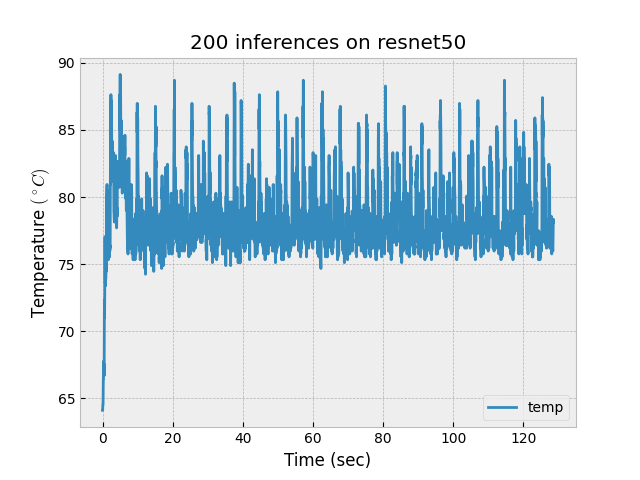
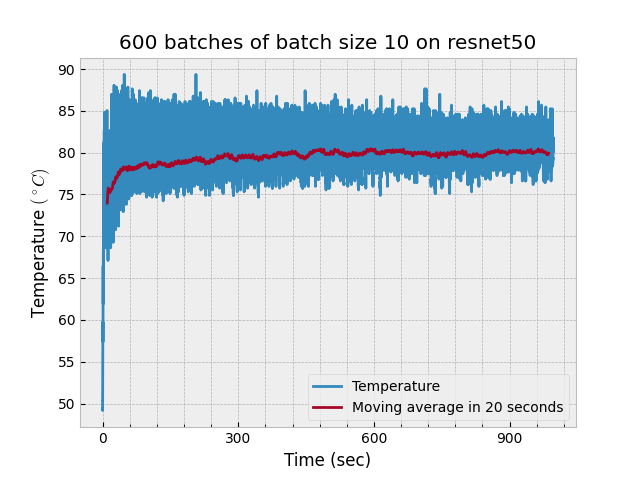
Minor Changes

diff --git a/examples/graph_temp_scheduler.cpp b/examples/graph_temp_scheduler.cpp
@@ -1035,45 +1035,45 @@ static std::map<string, std::map<int, double>> delta_temps{
 //v3.1
 static std::map<string, std::map<int, std::map<int, double>>> delta_temps2{
     { "resnet50",
-      { { CPU_SMALL, { { 50000 ,5400 }, { 55000 ,2098.29}, {60000 ,1555.2 } } },
-        { CPU_BIG, { { 55000 ,26784 }, { 60000 ,28728}, { 70000, 15336 }, { 75000, 11212.4 }, {80000 ,9201.6}, {85000 ,4968} } },
-        { CPU_BIG | CPU_SMALL, { { 60000 ,26568 }, { 65000 ,24192}, { 70000 ,18532.8 } ,{75000 ,14580}} },
-        { GPU, { { 55000 ,9504 }, { 60000 ,9192 }, {  65000 ,8559 } } },
-        { GPU | CPU_SMALL, { { 55000 ,18648}, { 60000 ,18511.2 }, { 65000 ,14004 }, { 75000 ,10368} } },
-        { GPU | CPU_BIG, { { 60000 ,26179.2 }, { 65000 ,23140.8 } } },
-        { GPU | CPU_BIG | CPU_SMALL, { { 60000 ,28944 }, {65000 ,23260.5 }, { 70000 ,19440} } } } },
+      { { CPU_SMALL, { { 50000, 5400 }, { 55000, 2098.29 }, { 60000, 1555.2 } } },
+        { CPU_BIG, { { 55000, 26784 }, { 60000, 28728 }, { 70000, 15336 }, { 75000, 11212.4 }, { 80000, 9201.6 }, { 85000, 4968 } } },
+        { CPU_BIG | CPU_SMALL, { { 60000, 26568 }, { 65000, 24192 }, { 70000, 18532.8 }, { 75000, 14580 } } },
+        { GPU, { { 55000, 9504 }, { 60000, 9192 }, { 65000, 8559 } } },
+        { GPU | CPU_SMALL, { { 55000, 18648 }, { 60000, 18511.2 }, { 65000, 14004 }, { 75000, 10368 } } },
+        { GPU | CPU_BIG, { { 60000, 26179.2 }, { 65000, 23140.8 } } },
+        { GPU | CPU_BIG | CPU_SMALL, { { 60000, 28944 }, { 65000, 23260.5 }, { 70000, 19440 } } } } },
     { "alexnet",
-      { { CPU_SMALL, { { 45000, 4104 }, { 50000, 480 }, {55000, 216} } },
+      { { CPU_SMALL, { { 45000, 4104 }, { 50000, 480 }, { 55000, 216 } } },
         { CPU_BIG, { { 50000, 21708 }, { 70000, 5076 }, { 75000, 2268 } } },
         { CPU_BIG | CPU_SMALL, { { 55000, 22896 }, { 60000, 21828 } } },
-        { GPU, { { 50000, 14472 }, {55000, 8964}, {6000, 6768} } },
-        { GPU | CPU_SMALL, { { 55000, 11772 }, { 60000, 8244 }, {65000, 10476} } },
+        { GPU, { { 50000, 14472 }, { 55000, 8964 }, { 6000, 6768 } } },
+        { GPU | CPU_SMALL, { { 55000, 11772 }, { 60000, 8244 }, { 65000, 10476 } } },
         { GPU | CPU_BIG, { { 55000, 23652 }, { 60000, 21414.9 } } },
         { GPU | CPU_BIG | CPU_SMALL, { { 60000, 26003.1 }, { 65000, 24068.6 } } } } },
     { "mobilenet",
-      { { CPU_SMALL, { { 45000, 3024 }, {50000, 330.353}, {55000, 324} } },
+      { { CPU_SMALL, { { 45000, 3024 }, { 50000, 330.353 }, { 55000, 324 } } },
         { CPU_BIG, { { 5000, 17820 }, { 65000, 4698 }, { 70000, 3067.2 } } },
         { CPU_BIG | CPU_SMALL, { { 55000, 19008 }, { 60000, 14637.2 } } },
-        { GPU, { { 50000, 6566.4 }, { 55000, 5708.57 }, {60000, 1296} } },
-        { GPU | CPU_SMALL, { { 50000, 12312 }, {55000 ,10354.5}, {60000 ,11448} } },
-        { GPU | CPU_BIG, { { 50000 ,19224}, { 55000 ,19076.2} } },
-        { GPU | CPU_BIG | CPU_SMALL, { { 55000 ,23065.7}, { 60000 ,21240 } } } } },
+        { GPU, { { 50000, 6566.4 }, { 55000, 5708.57 }, { 60000, 1296 } } },
+        { GPU | CPU_SMALL, { { 50000, 12312 }, { 55000, 10354.5 }, { 60000, 11448 } } },
+        { GPU | CPU_BIG, { { 50000, 19224 }, { 55000, 19076.2 } } },
+        { GPU | CPU_BIG | CPU_SMALL, { { 55000, 23065.7 }, { 60000, 21240 } } } } },
     { "squeezenet",
       { { CPU_SMALL, { { 65000, 518.4 } } },
-        { CPU_BIG, { { 60000 ,17280}, { 65000 ,15336 }, { 75000 ,5724 } , {80000, 2437.71}, {85000 ,1234.29}} },
-        { CPU_BIG | CPU_SMALL, { { 65000 ,19764 }, { 70000, 15181.7 }, {75000 ,14138.2} } },
-        { GPU, { { 60000 ,10354.5}, { 65000,6642 } } },
-        { GPU | CPU_SMALL, { { 55000, 14299.2 }, { 60000 ,13377.6 } } },
-        { GPU | CPU_BIG, { { 55000 ,20466 }, { 60000 ,20059.2 } ,{65000, 17496} } },
-        { GPU | CPU_BIG | CPU_SMALL, { { 60000, 25286.4 }, { 65000, 23328} } } } },
+        { CPU_BIG, { { 60000, 17280 }, { 65000, 15336 }, { 75000, 5724 }, { 80000, 2437.71 }, { 85000, 1234.29 } } },
+        { CPU_BIG | CPU_SMALL, { { 65000, 19764 }, { 70000, 15181.7 }, { 75000, 14138.2 } } },
+        { GPU, { { 60000, 10354.5 }, { 65000, 6642 } } },
+        { GPU | CPU_SMALL, { { 55000, 14299.2 }, { 60000, 13377.6 } } },
+        { GPU | CPU_BIG, { { 55000, 20466 }, { 60000, 20059.2 }, { 65000, 17496 } } },
+        { GPU | CPU_BIG | CPU_SMALL, { { 60000, 25286.4 }, { 65000, 23328 } } } } },
     { "googlenet",
-      { { CPU_SMALL, { { 55000, 4968 }, {60000, 999}, {65000, 504} } },
-        { CPU_BIG, { { 60000, 19980 }, { 70000, 11880 }, { 75000, 10260 }, {80000, 5753.45} } },
+      { { CPU_SMALL, { { 55000, 4968 }, { 60000, 999 }, { 65000, 504 } } },
+        { CPU_BIG, { { 60000, 19980 }, { 70000, 11880 }, { 75000, 10260 }, { 80000, 5753.45 } } },
         { CPU_BIG | CPU_SMALL, { { 55000, 25056 }, { 60000, 22032 }, { 65000, 20926.6 } } },
-        { GPU, { {55000,13348.8},{ 60000, 7368 }, { 65000, 3024 } } },
+        { GPU, { { 55000, 13348.8 }, { 60000, 7368 }, { 65000, 3024 } } },
         { GPU | CPU_SMALL, { { 55000, 15261.4 }, { 60000, 12168 } } },
         { GPU | CPU_BIG, { { 55000, 24926.4 }, { 60000, 22334.4 } } },
-        { GPU | CPU_BIG | CPU_SMALL, { { 55000, 28404 }, {60000, 27694.3} } } } },
+        { GPU | CPU_BIG | CPU_SMALL, { { 55000, 28404 }, { 60000, 27694.3 } } } } },
 
 };
 
@@ -1093,12 +1093,12 @@ static std::map<string, std::map<int, _param>> params{
 };
 
 static std::map<string, std::map<int, double>> time_takens = {
-    { "alexnet", { { CPU_SMALL, 4 }, { CPU_BIG, 2.05719 }, { GPU,  2.20043} } },
-        { "googlenet", { { CPU_SMALL, 2.81574 }, { CPU_BIG,  1.50193 }, { GPU,  1.98438 } } },
-            { "mobilenet", { { CPU_SMALL,  1.40115 }, { CPU_BIG,  0.822491 }, { GPU,  1.37579 } } },
-                { "resnet50", { { CPU_SMALL,  5.3915 }, { CPU_BIG,  4.44067 }, { GPU,  4.53231 } } },
-                    { "squeezenet", { { CPU_SMALL,  1.49032 }, { CPU_BIG,  0.968867 }, { GPU, 1.24075 } } }
-                    };
+    { "alexnet", { { CPU_SMALL, 4 }, { CPU_BIG, 2.05719 }, { GPU, 2.20043 } } },
+    { "googlenet", { { CPU_SMALL, 2.81574 }, { CPU_BIG, 1.50193 }, { GPU, 1.98438 } } },
+    { "mobilenet", { { CPU_SMALL, 1.40115 }, { CPU_BIG, 0.822491 }, { GPU, 1.37579 } } },
+    { "resnet50", { { CPU_SMALL, 5.3915 }, { CPU_BIG, 4.44067 }, { GPU, 4.53231 } } },
+    { "squeezenet", { { CPU_SMALL, 1.49032 }, { CPU_BIG, 0.968867 }, { GPU, 1.24075 } } }
+};
 
 char **convert(vector<string> argv_list)
 {
@@ -1190,16 +1190,19 @@ void profile_time(MyStreamingHelper &h, string graph)
         { CPU_SMALL, 0 },
         { GPU, 0 }
     };
-    int       j = 1;
+    int j = 1;
     for(const auto &kv : samples)
     {
         int  config_id = kv.first;
         auto config    = configs[configs_idx[config_id]];
         h << "[" << j++ << "/" << samples.size() << "] Processing " << config.name << "\n";
         int pid = fork();
-        if (pid > 0) {
+        if(pid > 0)
+        {
             wait(NULL);
-        } else {
+        }
+        else
+        {
             cpu_set_t mask;
             CPU_ZERO(&mask);
             if(config.id == CPU_SMALL)
@@ -1431,9 +1434,11 @@ void run_sched(MyStreamingHelper &h, unsigned int TL, unsigned int dt, string gr
                 else if(version == "3.1")
                 {
                     double min_diff = 99999999;
-                    for(auto kv:  delta_temps2[graph][i]){
-                        if (abs (kv.first - temp) < min_diff ){
-                            min_diff = abs (kv.first - temp);
+                    for(auto kv : delta_temps2[graph][i])
+                    {
+                        if(abs(kv.first - temp) < min_diff)
+                        {
+                            min_diff            = abs(kv.first - temp);
                             pred_delta_temps[i] = kv.second;
                         }
                     }
@@ -1441,7 +1446,9 @@ void run_sched(MyStreamingHelper &h, unsigned int TL, unsigned int dt, string gr
                 else if(version == "4")
                 {
                     pred_delta_temps[i] = fit_temp(temp, params[graph][i], dt) - temp;
-                }else {
+                }
+                else
+                {
                     cout << "no version matching " << version << "\n";
                 }
                 min_pred_delta_temp = min(min_pred_delta_temp, pred_delta_temps[i]);

diff --git a/motivation2.py b/motivation2.py
@@ -1,0 +1,114 @@
+import pandas as pd
+import seaborn as sns
+import matplotlib.pyplot as plt
+import matplotlib
+from collections import defaultdict
+
+matplotlib.style.use("bmh")
+
+data = {
+    "AlexNet": """
+CPU
+2.04546, 0.204546, 10, 0
+8.20984, 0.0820984, 10, 0
+1.48004, 1.48004, 100, 0
+GPU
+1.68578, 0.168578, 0, 10
+3.88249, 0.0388249, 0, 10
+1.02315, 1.02315, 0, 100
+CPU+GPU
+1.08566, 0.108566, 5, 5
+4.02829, 0.0402829, 3, 7
+0.565674, 0.565674, 36, 64
+""",
+    "MobileNet": """
+CPU
+0.8054, 0.08054, 10, 0
+7.26474, 0.0726474, 10, 0
+0.165057, 0.165057, 100, 0
+GPU
+0.847036, 0.0847036, 0, 10
+4.07821, 0.0407821, 0, 10
+0.349245, 0.349245, 0, 100
+CPU+GPU
+0.597024, 0.0597024, 6, 4
+3.06056, 0.0306056, 3, 7
+0.121253, 0.121253, 70, 30
+""",
+    "GoogleNet": """
+CPU
+1.74059, 0.174059, 10, 0
+16.394, 0.16394, 10, 0
+0.40172, 0.40172, 100, 0
+GPU
+3.32846, 0.332846, 0, 10
+8.56587, 0.0856587, 0, 10
+0.908863, 0.908863, 0, 100
+CPU+GPU
+1.4559, 0.14559, 7, 3
+5.32265, 0.0532265, 2, 8
+0.292517, 0.292517, 70, 30
+""",
+    "SqueezeNet": """
+CPU
+0.903475, 0.0903475, 10, 0
+8.74938, 0.0874938, 10, 0
+0.154127, 0.154127, 100, 0
+GPU
+1.27485, 0.127485, 0, 10
+4.3122, 0.043122, 0, 10
+0.354992, 0.354992, 0, 100
+CPU+GPU
+0.876682, 0.0876682, 7, 3
+3.23579, 0.0323579, 2, 8
+0.12756, 0.12756, 79, 21
+""",
+    "ResNet50": """
+CPU
+4.28826, 0.428826, 10, 0 
+30.681, 0.30681, 10, 0
+2.32899, 2.32899, 100, 0
+GPU
+3.94294, 0.394294, 0, 10
+18.3556, 0.183556, 0, 10
+1.94383, 1.94383, 100, 0
+CPU+GPU
+2.65938, 0.265938, 4, 6
+12.9827, 0.129827, 2, 8
+1.17527, 1.17527, 42, 58
+""",
+}
+
+data2 = []
+rows = [1, 2, 3, 5, 6, 7, 9, 10, 11]
+rowvs = [
+    (target, config)
+    for target in ["CPU", "GPU", "CPU + GPU"]
+    for config in [(10, 10), (10, 100), (1, 100)]
+]
+data3 = []
+for graph, val in data.items():
+    print(graph)
+    for (target, config), (idx, line) in zip(
+        rowvs,
+        [(a, b) for a, b in enumerate([x for x in val.split("\n") if x]) if a in rows],
+    ):
+        data3.append([graph, target, config, line.split(",")[1]])
+
+df = pd.DataFrame(
+    data3, columns=["Graph", "Target", "Config", "Time (sec/inference)",],
+)
+print(df)
+
+sns.catplot(
+    data=df,
+    x="Graph",
+    y="Time (sec/inference)",
+    hue="Config",
+    legend=True,
+    kind="bar",
+    col="Target",
+    legend_out=False,
+)
+print(f"Generated fig")
+plt.savefig(f"motivation_2.png")

diff --git a/motivation/plot.py b/motivation/plot.py
@@ -1,19 +1,27 @@
 import os
-import pandas as pd
+
 import matplotlib
 import matplotlib.pyplot as plt
+import pandas as pd
+from matplotlib.ticker import MultipleLocator
 
 matplotlib.style.use("bmh")
 
 for file in os.listdir("."):
-    if ".csv" in file:
+    if "resnet50.csv" in file:
         graph_name = file.split(".")[0]
         print(graph_name)
-        df = pd.read_csv(file, names=["time", "temp"])
+        df = pd.read_csv(file, names=["time", "temp"],)
         df["temp"] /= 1000
-        print(df)
-        ax = df.plot(x="time", y="temp",)
+        ax = df.plot(x="time", y="temp", label="Temperature")
+        df.rolling(round(20 / 0.01)).mean().plot(
+            x="time", y="temp", ax=ax, label="Moving average in 20 seconds"
+        )
+        ax.xaxis.grid(True, which="both")
+        ax.yaxis.grid(True, which="both")
         ax.set_xlabel("Time (sec)")
         ax.set_ylabel("Temperature $(^\circ C)$")
-        plt.title(f"200 inferences on {graph_name}")
+        ax.xaxis.set_major_locator(MultipleLocator(300))
+        ax.xaxis.set_minor_locator(MultipleLocator(60))
+        plt.title(f"600 batches of batch size 10 on {graph_name}")
         plt.savefig(f"{graph_name}.png")
